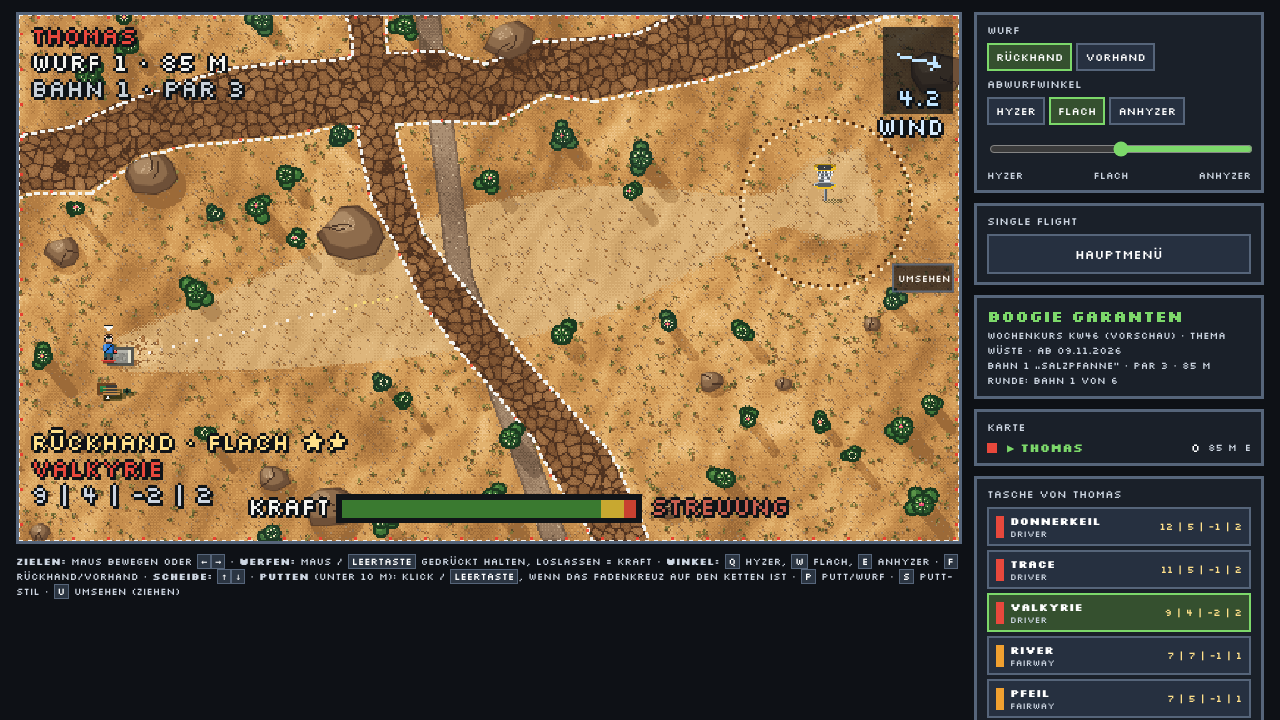
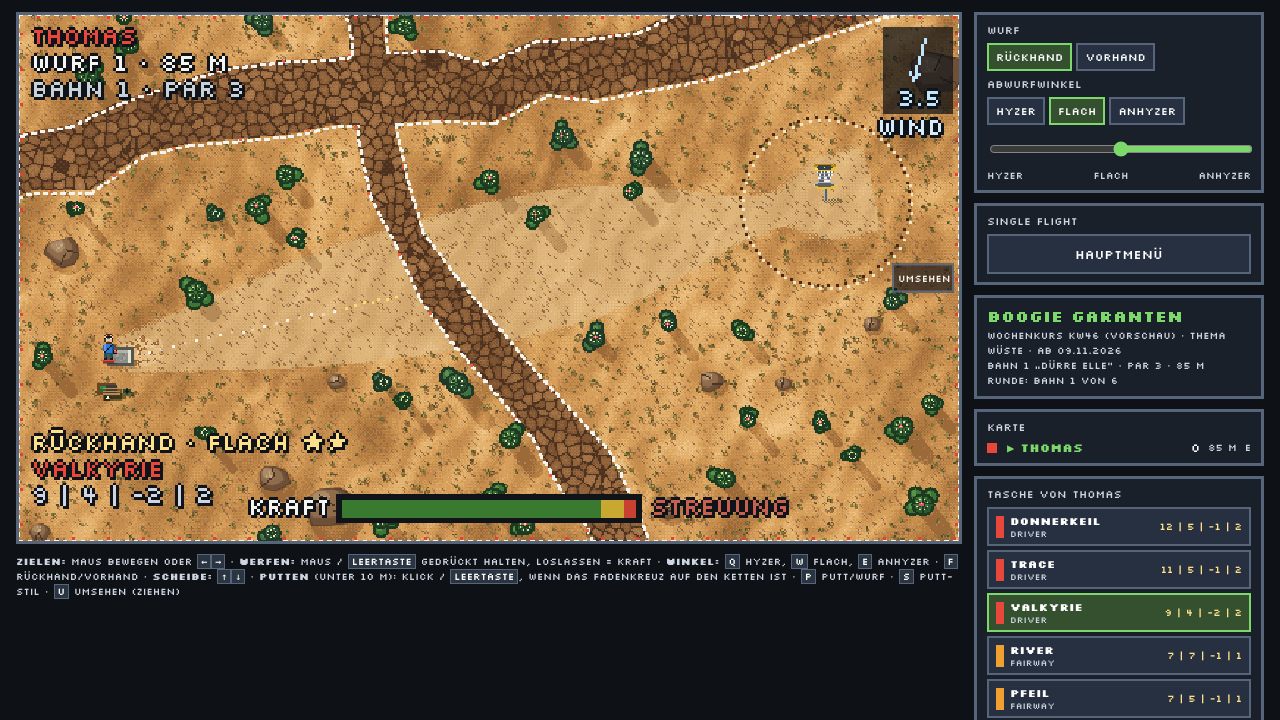
Version 0.7.0
Claude-Session: https://claude.ai/code/session_01Vbx7E7hfukQpWwXxJkcCby

diff --git a/index.html b/index.html
@@ -227,7 +227,7 @@
   <div class="menue-innen">
     <canvas class="korbbild" id="korbbild" width="24" height="24"></canvas>
     <h1 class="titel">BOOGIE<br>GARANTEN</h1>
-    <p class="untertitel">Discgolf in 8 Bit<br><span style="color:#9fc49a">Version 0.6.1</span></p>
+    <p class="untertitel">Discgolf in 8 Bit<br><span style="color:#9fc49a">Version 0.7.0</span></p>
     <div id="menue-start" class="liste" style="gap:10px">
       <button class="gross" data-modus="frei">Freies Werfen<small>Sportplatz – Weiten testen, ohne Zählen</small></button>
       <button class="gross" data-modus="single">Single Flight<small>Eine Person spielt die Runde</small></button>
@@ -535,13 +535,13 @@
   <button data-ansicht="feld" class="zum-spiel">← Zurück zum Spiel</button>
 </nav>
 
-<script src="taschen.js?v=0.6.1"></script>
-<script src="bahnen.js?v=0.6.1"></script>
-<script src="wochenbahnen.js?v=0.6.1"></script>
-<script src="wochen.js?v=0.6.1"></script>
-<script src="physik.js?v=0.6.1"></script>
-<script src="portraets.js?v=0.6.1"></script>
-<script src="grafik.js?v=0.6.1"></script>
+<script src="taschen.js?v=0.7.0"></script>
+<script src="bahnen.js?v=0.7.0"></script>
+<script src="wochenbahnen.js?v=0.7.0"></script>
+<script src="wochen.js?v=0.7.0"></script>
+<script src="physik.js?v=0.7.0"></script>
+<script src="portraets.js?v=0.7.0"></script>
+<script src="grafik.js?v=0.7.0"></script>
 <script>
 "use strict";
 const { simuliere, streue, abstand, aufBowlingbahn, istOB, DEG } = Physik;
@@ -2748,6 +2748,6 @@ requestAnimationFrame(schleife);
 // Als App installierbar / offline startbar
 if ("serviceWorker" in navigator) navigator.serviceWorker.register("sw.js").catch(() => { /* egal */ });
 </script>
-<script src="mehrspieler.js?v=0.6.1"></script>
+<script src="mehrspieler.js?v=0.7.0"></script>
 </body>
 </html>
